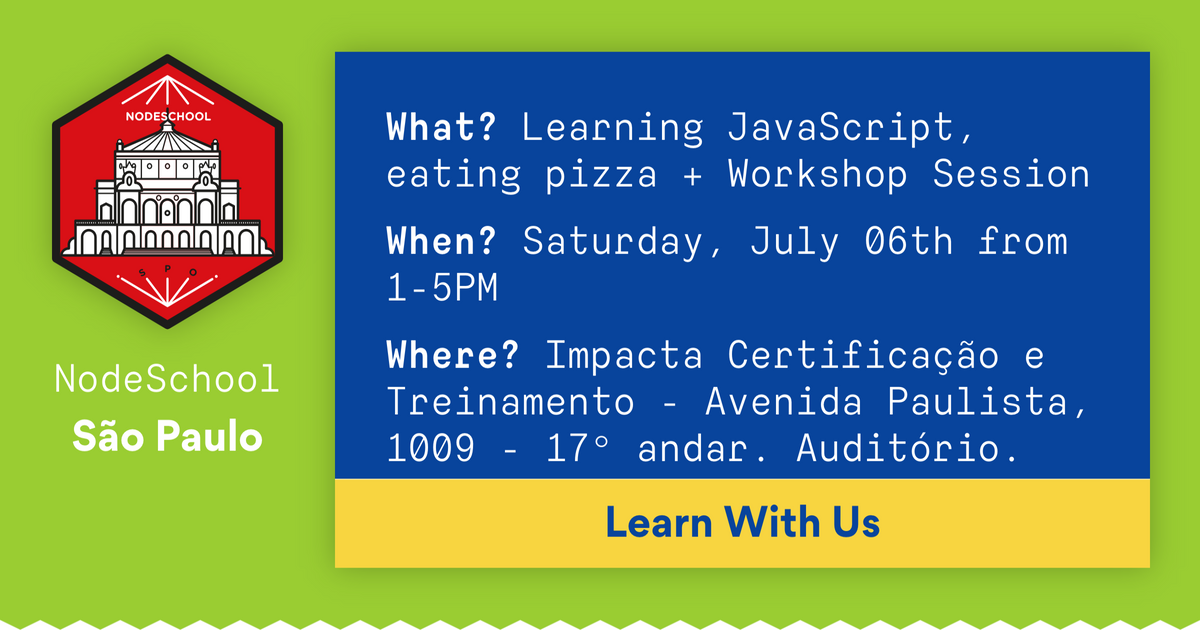
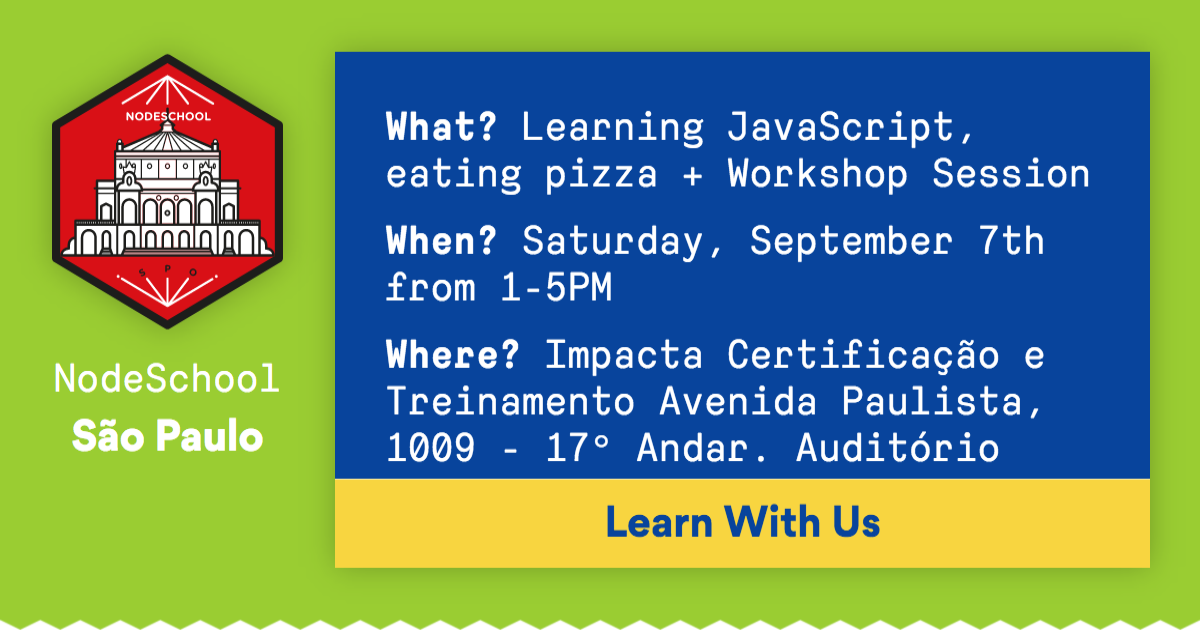
AUTOMATIC site update

diff --git a/docs/index.html b/docs/index.html
@@ -9,7 +9,7 @@
   <meta property="og:description"
     content="NodeSchool São Paulo is a monthly meetup dedicated to helping people learn JavaScript." />
   <meta property="og:url" content="https://nodeschool.io/saopaulo/" />
-  <meta property="og:image" content="https://nodeschool.io/saopaulo/images/social.png?t=1558983054730" />
+  <meta property="og:image" content="https://nodeschool.io/saopaulo/images/social.png?t=1565127006498" />
   <!--Twitter-->
   <meta name="twitter:card" content="summary_large_image">
   <meta name="twitter:site" content="@nodeschoolsp">
@@ -17,7 +17,7 @@
   <meta name="twitter:title" content="NodeSchool São Paulo">
   <meta name="twitter:description"
     content="NodeSchool São Paulo is a monthly meetup dedicated to helping people learn JavaScript.">
-  <meta name="twitter:image" content="https://nodeschool.io/saopaulo/images/social.png?t=1558983054730">
+  <meta name="twitter:image" content="https://nodeschool.io/saopaulo/images/social.png?t=1565127006498">
 
   <title>NodeSchool São Paulo</title>
   <link rel="stylesheet" href="./styles/index.css" />
@@ -69,7 +69,7 @@
 
         <div class="next-event">
           <div class="next-event__description">
-            <h2 class="next-event__heading">Our Next Event is on July 06th</h2>
+            <h2 class="next-event__heading">Our Next Event is on September 7th</h2>
             <ul class="next-event__info">
               <li class="next-event__info__item">
                 <strong class="strong--alt">Workshop Session?</strong> Server Side Rendering for Artist - Audiovisual
@@ -77,11 +77,11 @@
                   Garrett</a>
               </li>
               <li class="next-event__info__item">
-                <strong class="strong--alt">When?</strong> Saturday, July 06th from 1-5PM
+                <strong class="strong--alt">When?</strong> Saturday, September 7th from 1-5PM
               </li>
               <li class="next-event__info__item">
-                <strong class="strong--alt">Where?</strong> Impacta Certificação e Treinamento - Avenida Paulista, 1009 - 17º andar. Auditório. [<a
-                  href="http://maps.google.com/?q=Impacta Certificação e Treinamento - Avenida Paulista, 1009 - 17º andar. Auditório.">map</a>]
+                <strong class="strong--alt">Where?</strong> Impacta Certificação e Treinamento Avenida Paulista, 1009 - 17º Andar. Auditório [<a
+                  href="http://maps.google.com/?q=Avenida%20Paulista%2C%201009%20-%2017%C2%BA%20Andar.%20Audit%C3%B3rio">map</a>]
               </li>
               <li class="next-event__info__item">
                 <strong class="strong--alt">What?</strong> Learning, mentoring, javascript bffs, and pizza 🍕
@@ -89,9 +89,9 @@
             </ul>
           </div>
           <nav class="next-event__actions">
-            <a class="next-event__action__learner next-event__action button" href="https:&#x2F;&#x2F;www.meetup.com&#x2F;pt-BR&#x2F;nodeschoolsp&#x2F;events&#x2F;261811632">
+            <a class="next-event__action__learner next-event__action button" href="https:&#x2F;&#x2F;www.meetup.com&#x2F;nodeschoolsp&#x2F;events&#x2F;263786026&#x2F;">
               Sign up as a Learner
-            </a><a class="next-event__action__mentor next-event__action button" href="https:&#x2F;&#x2F;github.com&#x2F;nodeschool&#x2F;saopaulo&#x2F;issues&#x2F;10">
+            </a><a class="next-event__action__mentor next-event__action button" href="https:&#x2F;&#x2F;github.com&#x2F;nodeschool&#x2F;saopaulo&#x2F;issues&#x2F;22">
               Sign up as a Mentor
             </a>
           </nav>

diff --git a/docs/social.html b/docs/social.html
@@ -22,8 +22,8 @@
       <div class="social__message next-event">
         <div class="next-event__description">
           <p><strong>What?</strong> Learning JavaScript, eating pizza + Workshop Session</p>
-          <p><strong>When?</strong> Saturday, July 06th from 1-5PM</p>
-          <p><strong>Where?</strong> Impacta Certificação e Treinamento - Avenida Paulista, 1009 - 17º andar. Auditório.</p>
+          <p><strong>When?</strong> Saturday, September 7th from 1-5PM</p>
+          <p><strong>Where?</strong> Impacta Certificação e Treinamento Avenida Paulista, 1009 - 17º Andar. Auditório</p>
         </div>
         <div class="next-event__actions">
           <button class="next-event__action__learn next-event__action social__button button">Learn With Us</button>
